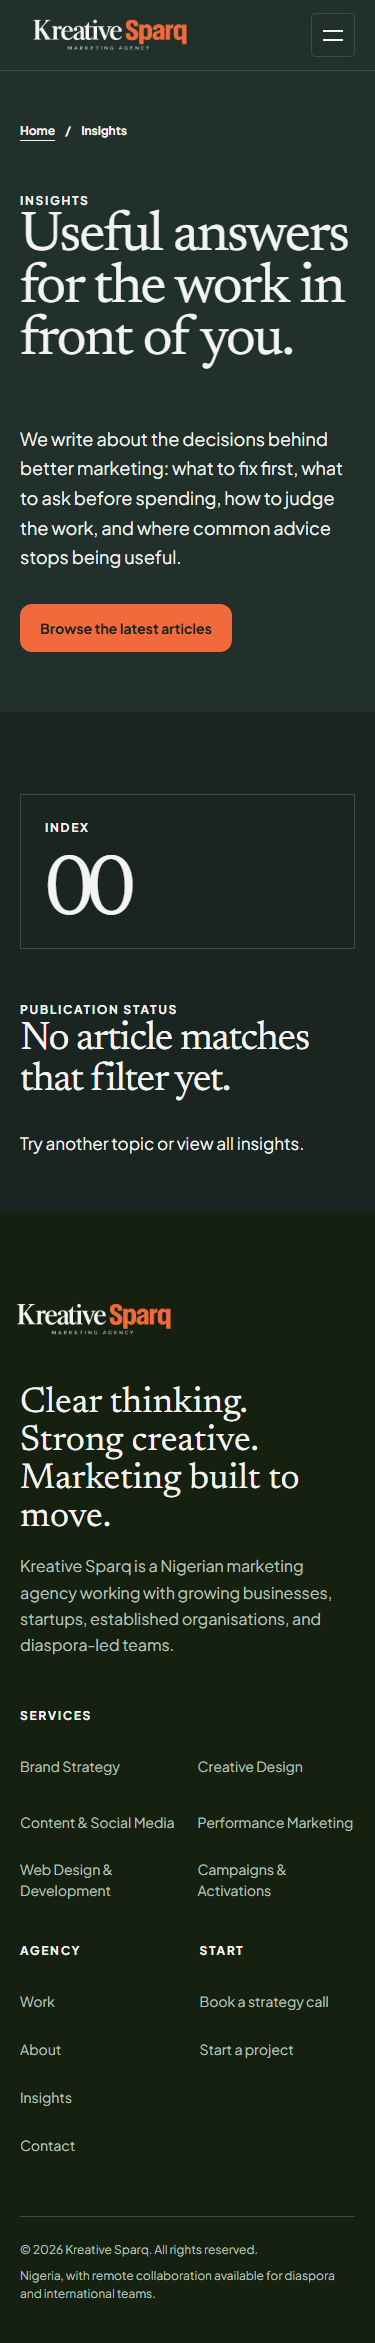
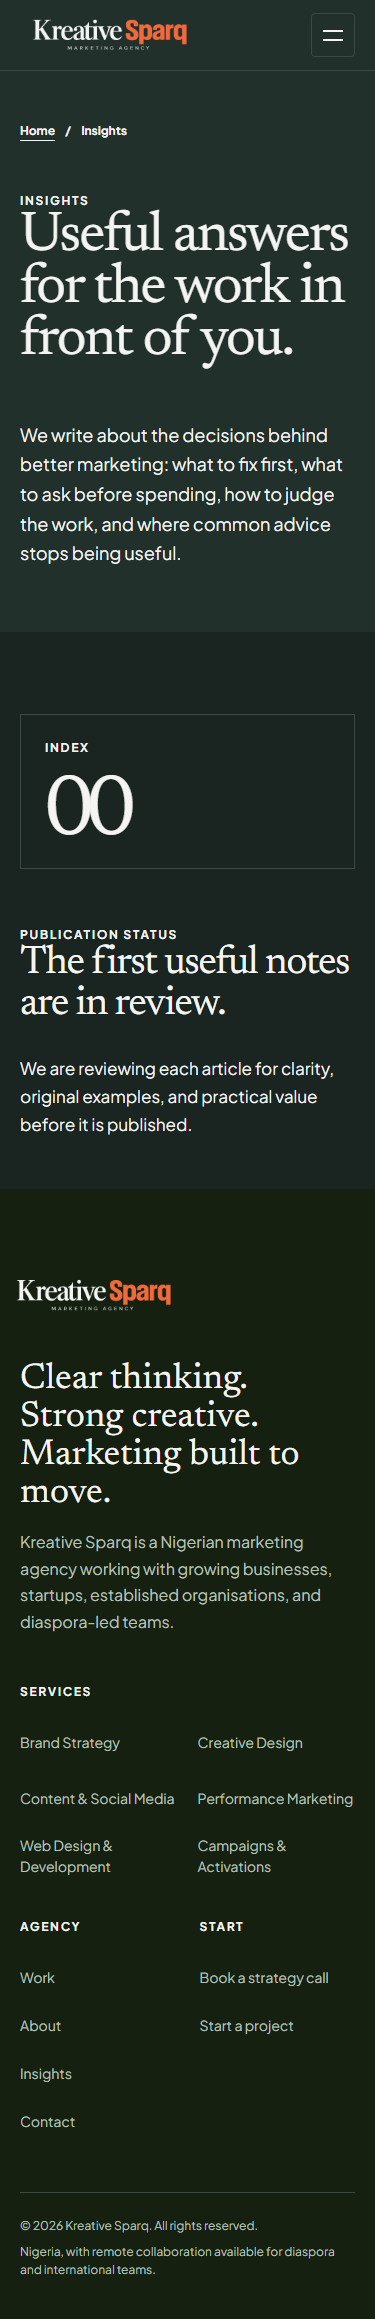
fix: correct phase 7 insights prepublication state

diff --git a/app/insights/page.tsx b/app/insights/page.tsx
@@ -1,5 +1,4 @@
 import type { Metadata } from "next";
-import Link from "next/link";
 import { EditorialBreadcrumb } from "@/components/editorial-breadcrumb";
 import {
   getEditorialField,
@@ -14,6 +13,10 @@ export const metadata: Metadata = {
   title: page.fields["SEO title"],
   description: page.fields["Meta description"],
   alternates: { canonical: page.fields.Route },
+  robots: {
+    index: false,
+    follow: true,
+  },
   openGraph: {
     title: page.fields["Open Graph title"],
     description: page.fields["Meta description"],
@@ -25,7 +28,7 @@ export const metadata: Metadata = {
 };
 
 export default function InsightsPage() {
-  const empty = getEditorialSection(page, "Empty state");
+  const prePublication = getEditorialSection(page, "Pre-publication state");
 
   return (
     <main
@@ -43,30 +46,29 @@ export default function InsightsPage() {
             </div>
             <div className="insights-hero__aside">
               <p>{page.fields["Hero body"]}</p>
-              <Link className="button button--primary" href="#insights-empty">
-                {page.fields["Primary CTA"]}
-              </Link>
             </div>
           </div>
         </div>
       </section>
 
       <section
-        id="insights-empty"
-        className="insights-empty"
-        aria-labelledby="insights-empty-title"
+        id="insights-publication"
+        className="insights-prepublication"
+        aria-labelledby="insights-publication-title"
       >
-        <div className="ks-container insights-empty__grid">
-          <div className="insights-empty__mark" aria-hidden="true">
+        <div className="ks-container insights-prepublication__grid">
+          <div className="insights-prepublication__mark" aria-hidden="true">
             <span>Index</span>
             <strong>00</strong>
           </div>
-          <div className="insights-empty__copy">
-            <p className="eyebrow">Publication status</p>
-            <h2 id="insights-empty-title">
-              {getEditorialField(empty, "Heading")}
+          <div className="insights-prepublication__copy">
+            <p className="eyebrow">
+              {getEditorialField(prePublication, "Eyebrow")}
+            </p>
+            <h2 id="insights-publication-title">
+              {getEditorialField(prePublication, "Heading")}
             </h2>
-            <p>{getEditorialField(empty, "Body")}</p>
+            <p>{getEditorialField(prePublication, "Body")}</p>
           </div>
         </div>
       </section>

diff --git a/app/editorial.css b/app/editorial.css
@@ -420,10 +420,6 @@
   font-size: clamp(18px, 1.35vw, 22px);
 }
 
-.insights-hero__aside .button {
-  margin-top: 32px;
-}
-
 [data-theme="dark"] .insights-hero {
   background: var(--brand-dark-surface);
   color: var(--brand-dark-primary-text);
@@ -435,19 +431,19 @@
   color: var(--brand-dark-primary-text);
 }
 
-.insights-empty {
+.insights-prepublication {
   padding-block: clamp(112px, 12vw, 200px);
   background: var(--page-bg);
 }
 
-.insights-empty__grid {
+.insights-prepublication__grid {
   display: grid;
   grid-template-columns: minmax(250px, 0.65fr) minmax(0, 1.35fr);
   align-items: stretch;
   gap: 8%;
 }
 
-.insights-empty__mark {
+.insights-prepublication__mark {
   display: flex;
   min-height: 380px;
   flex-direction: column;
@@ -461,7 +457,7 @@
   text-transform: uppercase;
 }
 
-.insights-empty__mark strong {
+.insights-prepublication__mark strong {
   font-family: var(--font-display), Georgia, serif;
   font-size: clamp(92px, 11vw, 170px);
   font-weight: 400;
@@ -469,13 +465,13 @@
   letter-spacing: -0.08em;
 }
 
-.insights-empty__copy {
+.insights-prepublication__copy {
   align-self: end;
   max-width: 820px;
   padding-bottom: 24px;
 }
 
-.insights-empty__copy p:not(.eyebrow) {
+.insights-prepublication__copy p:not(.eyebrow) {
   max-width: 620px;
   margin-top: 28px;
   font-size: clamp(17px, 1.35vw, 20px);
@@ -519,7 +515,7 @@
   }
 
   .work-empty__index,
-  .insights-empty__mark {
+  .insights-prepublication__mark {
     min-height: 330px;
   }
 
@@ -541,7 +537,7 @@
   .work-hero__grid,
   .insights-hero__grid,
   .work-empty__grid,
-  .insights-empty__grid,
+  .insights-prepublication__grid,
   .about-view__grid,
   .about-audience__grid,
   .about-service-area__grid,
@@ -561,7 +557,7 @@
   }
 
   .work-empty,
-  .insights-empty,
+  .insights-prepublication,
   .about-beliefs,
   .about-view,
   .about-audience,
@@ -572,12 +568,12 @@
   }
 
   .work-empty__index,
-  .insights-empty__mark {
+  .insights-prepublication__mark {
     min-height: 190px;
   }
 
   .work-empty__copy,
-  .insights-empty__copy {
+  .insights-prepublication__copy {
     padding: 24px 0 0;
   }
 
@@ -633,12 +629,12 @@
     min-height: 155px;
   }
 
-  .insights-empty__mark {
+  .insights-prepublication__mark {
     min-height: 155px;
     padding: 24px;
   }
 
-  .insights-empty__mark strong {
+  .insights-prepublication__mark strong {
     font-size: 86px;
   }
 

diff --git a/IMPLEMENTATION_STATUS.md b/IMPLEMENTATION_STATUS.md
@@ -2,32 +2,32 @@
 
 Updated 22 September 2026.
 
-## Phase 7: Work, About, and Insights — complete, awaiting approval
+## Phase 7 correction: Insights pre-publication state — complete, awaiting approval
 
 Phase 7 adds three static public editorial routes: `/work`, `/about`, and `/insights`. Each uses the approved chapter from `Kreative_Sparq_Website_Copy_Claude_Code.md`, with unique metadata, canonical URL, Open Graph fields, theme treatment, responsive composition, and internal links. `pnpm copy:check` now verifies these editorial chapters as well as all Services copy.
 
-`/work` publishes the approved case-study empty state, results-integrity note, and calls to action without a project card, client, outcome, date, quote, or project image. No `/work/[slug]` route exists. `/about` publishes the approved agency point of view, beliefs, audiences, working relationship, service area, and CTA; the unresolved Team section is absent. `/insights` publishes the approved hero and empty state; categories, featured article, newsletter form, and article cards are absent because no article is publication-ready and no newsletter integration exists. No `/insights/[slug]` route exists.
+`/work` publishes the approved case-study empty state, results-integrity note, and calls to action without a project card, client, outcome, date, quote, or project image. No `/work/[slug]` route exists. `/about` publishes the approved agency point of view, beliefs, audiences, working relationship, service area, and CTA; the unresolved Team section is absent. `/insights` now publishes the approved pre-publication status from the amended source deck. Its hero has no action while zero articles are public, and its metadata is `noindex,follow`. Categories, filter copy, featured article, newsletter form, and article cards are absent because no article is publication-ready and no newsletter integration exists. No `/insights/[slug]` route exists.
 
 The three supplied article drafts remain unpublished because their author fields, original examples, update dates, and editorial approvals are unresolved. Known draft slugs and guessed Work/Insights slugs return the approved 404 with no Article or CaseStudy data. The optional editorial images remain in the reference package: omitting them avoids implying that a fictional subject is staff, a client, an author, or a case-study participant.
 
 **Phase 6 follow-ups:** Phase 5 is now recorded as approved. Every Services route now verifies that the mobile menu opens, exposes its dialog, locks body scrolling, has no open-menu overflow, closes with Escape, and restores focus to its trigger. The expanded Services validation passed before Phase 7 implementation and again in the final suite.
 
-**Fresh evidence:** `qa/phase7/editorial/` contains 42 complete full-page captures: Work, About, and Insights at 360, 375, 390, 768, 1024, 1440, and 1920 px in Light and Dark. Capture waits for the heading, resolved theme, visible images, and fonts, checks horizontal overflow, and then writes the full page.
+**Fresh correction evidence:** `qa/phase7/editorial/` contains 42 complete full-page captures: Work, About, and Insights at 360, 375, 390, 768, 1024, 1440, and 1920 px in Light and Dark. The 14 Insights files were regenerated after the correction. Capture waits for the heading, resolved theme, visible images, and fonts, checks horizontal overflow, and then writes the full page.
 
 | Phase 7 check | Result |
 |---|---|
 | `pnpm lint`, `pnpm typecheck`, `pnpm format:check`, `pnpm copy:check` | Passed in final verification. |
 | `pnpm build` | Passed; `/work`, `/about`, and `/insights` are statically generated. No case-study or article detail route is generated. |
-| `pnpm test` | Passed 28 existing Playwright tests, all 7 Services routes, and all 3 editorial routes. The editorial validator covers 3 widths, both themes, keyboard order, visible focus, mobile-menu behavior, images, links, metadata, schema, and HTTP status. |
+| `pnpm test` | Passed 28 existing Playwright tests, all 7 Services routes, and all 3 editorial routes. The editorial validator covers 3 widths, both themes, keyboard order, visible focus, mobile-menu behavior, images, links, metadata, schema, and HTTP status. Insights-specific checks require the new state, reject browse/filter copy and Article data, require `noindex,follow`, and verify article 404s are `noindex`. |
 | Axe | Services retained 28 zero-violation scans. Phase 7 added 12 zero-violation scans: every editorial route at 360 and 1440 px in both themes. |
-| Unpublished protection | Six representative guessed/draft detail URLs return 404; public-page HTML contains no link to them and no Article or CaseStudy structured data. |
+| Unpublished protection | Six representative guessed/draft detail URLs return 404; all known and guessed article URLs emit `noindex`; public-page HTML contains no link to them and no Article or CaseStudy structured data. No sitemap exists; the validator will reject `/insights` if a future sitemap includes it while zero articles are public. |
 | Screenshots | `pnpm screenshots:editorial` completed 42/42 captures and exited cleanly. |
 
-**Documented implementation differences:** The Insights hero action is an in-page link to the approved publication-status empty state. The empty-state “View all insights” action is omitted because it would reload the same unfiltered empty page. Categories and filter controls are omitted while there are zero public articles, avoiding empty topic UI. The Team chapter is omitted rather than showing placeholders. Work and Insights publish BreadcrumbList data because a matching visible breadcrumb is present; About adds no structured data.
+**Publication-state distinction:** Pre-publication applies while zero articles are approved and uses the dedicated review-in-progress copy with no hero action, filters, cards, or newsletter form. The separate filter-empty copy remains in the source deck for a future populated index with functional category controls; it is not rendered today. The Team chapter is omitted rather than showing placeholders. Work and Insights publish BreadcrumbList data because a matching visible breadcrumb is present; Insights publishes no Article data, and About adds no structured data.
 
 **Phase 9 follow-ups:** evaluate detail-page hero-image preload and LCP; decide whether the Services overview should show a visible breadcrumb or drop its BreadcrumbList data; complete actual browser zoom testing when a suitable GUI environment is available.
 
-**Scope and gate:** `/contact`, `/start-a-project`, `/book`, `/thank-you`, `/privacy`, and `/terms` remain approved 404 destinations. No forms, email, calendar, spam protection, analytics, legal-page work, or Phase 8 implementation has begun. Commit and push only to `codex/editorial-rebuild`; do not merge into `main`. Stop and ask: **Approve the editorial pages and proceed to Phase 8: Contact, project brief, booking, and legal pages?**
+**Scope and gate:** `/contact`, `/start-a-project`, `/book`, `/thank-you`, `/privacy`, and `/terms` remain approved 404 destinations. No forms, email, calendar, spam protection, analytics, legal-page work, or Phase 8 implementation has begun. Commit and push only to `codex/editorial-rebuild`; do not merge into `main`. Stop and ask: **Is revised Phase 7 approved for Phase 8?**
 
 ## Phase 6 record: Services experience — complete and approved
 

diff --git a/VISUAL_QA.md b/VISUAL_QA.md
@@ -2,7 +2,7 @@
 
 Phase 1 translation, updated through the Phase 7 editorial-page review on 22 September 2026. The locked homepage evidence remains in `qa/phase5/`; Services evidence is in `qa/phase6/services/`; Phase 7 adds 42 full-page Work, About, and Insights captures in `qa/phase7/editorial/`. The homepage reference was inspected at its full 799 × 1967 px resolution. The coordinates below are approximate visual bands in the supplied image, not original layout measurements. DESIGN_SYSTEM.md records the locked implementation rules; the approved copy deck controls actual text.
 
-## Phase 7 editorial review
+## Phase 7 editorial review and zero-publication correction
 
 Work, About, and Insights were captured in Light and Dark at all seven approved widths. The pages share typography, semantic tokens, rules, container width, header, footer, actions, and focus states while using distinct compositions suited to their content.
 
@@ -10,11 +10,13 @@ Work, About, and Insights were captured in Light and Dark at all seven approved 
 |---|---|---|---|
 | Work | `qa/phase7/editorial/work-light-{360,375,390,768,1024,1440,1920}.png` | `qa/phase7/editorial/work-dark-{360,375,390,768,1024,1440,1920}.png` | Large editorial hero, pending archive field, approved empty state, results note, and closing CTA remain balanced without case-study imagery or proof. |
 | About | `qa/phase7/editorial/about-light-{360,375,390,768,1024,1440,1920}.png` | `qa/phase7/editorial/about-dark-{360,375,390,768,1024,1440,1920}.png` | Point-of-view band, belief grid, audience, relationship list, service area, and closing CTA preserve hierarchy without a team grid, portraits, history, or credentials. |
-| Insights | `qa/phase7/editorial/insights-light-{360,375,390,768,1024,1440,1920}.png` | `qa/phase7/editorial/insights-dark-{360,375,390,768,1024,1440,1920}.png` | Hero and zero-item index make publication status explicit. No article cards, authors, dates, reading times, categories, newsletter field, or false publication signals appear. |
+| Insights | `qa/phase7/editorial/insights-light-{360,375,390,768,1024,1440,1920}.png` | `qa/phase7/editorial/insights-dark-{360,375,390,768,1024,1440,1920}.png` | Corrected captures use the approved pre-publication heading and body with no hero button. The large status index balances the shorter hero in both themes. No filter language, filter controls, article cards, authors, dates, reading times, categories, newsletter field, or false publication signals appear. |
 
 At 360–390 px, each layout collapses to one reading column, headings retain deliberate wraps, actions keep at least 44 px targets, and no horizontal overflow appears. The About belief items and relationship list use compact ruled rows to control page length without hiding copy. At 768 px, the pages transition into editorial splits. From 1024–1920 px, the Work archive, About chapters, and Insights index use different grid proportions while remaining inside the 1600 px system container.
 
-All 42 captures wait for the resolved theme, visible images, font readiness, and a return to the top. Automated review covers every route at 360/768/1440 in both themes, 12 axe scans, keyboard-first skip navigation, visible focus, open/close mobile-menu behavior, internal-link status, exact approved copy, metadata, schema, and unpublished-route protection.
+All 42 captures wait for the resolved theme, visible images, font readiness, and a return to the top. The 14 Insights captures were regenerated after the Phase 7 correction and inspected at every approved width; removing the hero action leaves intentional breathing room without an awkward gap or horizontal overflow. Automated review covers every route at 360/768/1440 in both themes, 12 axe scans, keyboard-first skip navigation, visible focus, open/close mobile-menu behavior, internal-link status, exact approved copy, metadata, schema, and unpublished-route protection. The Insights assertions additionally require the pre-publication copy, omit all filter-empty and browse-action copy, require `noindex,follow`, verify draft and guessed article 404s remain `noindex`, and reject Article structured data.
+
+The copy deck now defines two separate conditions. **Pre-publication** means zero approved articles and is the only state rendered today. **Filter empty** is retained only for a future populated index where a visitor has actually selected a category with no matches. The future filter state must not be used until article cards and functional filters exist.
 
 ## Phase 6 Services review
 

diff --git a/DESIGN_SYSTEM.md b/DESIGN_SYSTEM.md
@@ -274,10 +274,11 @@ Reusable code is limited to the service patterns demonstrated on multiple routes
 These patterns are demonstrated across Work, About, and Insights. They extend the locked system without turning the three pages into one template.
 
 - **Editorial typography and grids:** Keep the Newsreader display scale, Plus Jakarta Sans body, 1600 px maximum container, semantic rules, and controlled prose measures. Large index headings may use tighter line height than service details. At 768 px and wider, pair a dominant statement with a narrower explanatory column; stack in reading order below 768 px.
-- **Truthful empty space:** When proof or publications are unavailable, use a clearly labelled, ruled status field and approved empty-state copy. Empty space may carry hierarchy. Do not fill it with sample cards, mock results, fictional imagery, placeholder people, or unpublished metadata.
-- **Page-specific composition:** Work uses a pending archive and results-integrity band. About uses a dark point-of-view chapter, ruled belief grid, and operating-principles list. Insights uses a zero-item publication index. Shared tokens and controls remain stable while the chapter structures differ.
+- **Truthful empty space:** When proof or publications are unavailable, use a clearly labelled, ruled status field and approved state copy. Empty space may carry hierarchy. Do not fill it with sample cards, mock results, fictional imagery, placeholder people, or unpublished metadata.
+- **Publication-state distinction:** The Insights pre-publication state applies only while zero articles are approved. It uses the `Publication status` eyebrow and review-in-progress copy, removes the hero action, publishes no category controls, and emits `noindex,follow`. The filter-empty state is reserved for a future populated index after article cards and working category filters exist. Its “No article matches that filter yet” copy and “View all insights” action must never appear as the zero-publication state.
+- **Page-specific composition:** Work uses a pending archive and results-integrity band. About uses a dark point-of-view chapter, ruled belief grid, and operating-principles list. Insights uses a pre-publication status index while no articles are approved. Shared tokens and controls remain stable while the chapter structures differ.
 - **Breadcrumbs and structure:** Work and Insights show a visible two-item breadcrumb and publish matching BreadcrumbList data. About has no structured data because the visible content does not need an additional schema type. Never publish Article, Person, Review, CaseStudy, award, rating, or client data without the required facts.
-- **Actions:** Public destinations may use the locked primary button or editorial text link. Planned Phase 8 destinations remain ordinary links to the approved 404 and must not imply successful booking, contact, or submission. An in-page action may reveal publication status when no article is public.
+- **Actions:** Public destinations may use the locked primary button or editorial text link. Planned Phase 8 destinations remain ordinary links to the approved 404 and must not imply successful booking, contact, or submission. Insights has no hero action while zero articles are public; do not add a control that only scrolls to its pre-publication status.
 - **Theme and surfaces:** Light pages may alternate Mineral White, Pure White, Soft Sage, and Deep Forest. Dark pages use Dark Forest, Dark Surface, Dark Raised Surface, and Deep Forest. Orange remains limited to actions, numbering, focus, and small status accents. Natural imagery rules still apply, although Phase 7 deliberately uses no optional editorial image.
 - **Mobile behavior:** At 360–390 px, collapse all editorial splits to one column, retain 44 px targets, use ruled list rows for dense material, and keep display headings within the viewport. Tablet restores selected two-column layouts; desktop proportions vary by page.
 

diff --git a/Kreative_Sparq_Website_Copy_Claude_Code.md b/Kreative_Sparq_Website_Copy_Claude_Code.md
@@ -1318,6 +1318,14 @@ Measurement is useful when it leads to a decision. A report that nobody can act 
 **Hero body:** We write about the decisions behind better marketing: what to fix first, what to ask before spending, how to judge the work, and where common advice stops being useful.  
 **Primary CTA:** Browse the latest articles
 
+### Pre-publication state
+
+**Use when:** Zero articles are approved for publication.  
+**Eyebrow:** Publication status  
+**Heading:** The first useful notes are in review.  
+**Body:** We are reviewing each article for clarity, original examples, and practical value before it is published.  
+**Hero CTA rule:** When zero articles are published, omit “Browse the latest articles” entirely. Do not replace it with a button that merely scrolls to an empty state.
+
 ### Categories
 
 - Brand
@@ -1345,7 +1353,7 @@ Measurement is useful when it leads to a decision. A report that nobody can act 
 **Field label:** Work email  
 **Button:** Send me the next note
 
-### Empty state
+### Filter empty state
 
 **Heading:** No article matches that filter yet.  
 **Body:** Try another topic or view all insights.  
